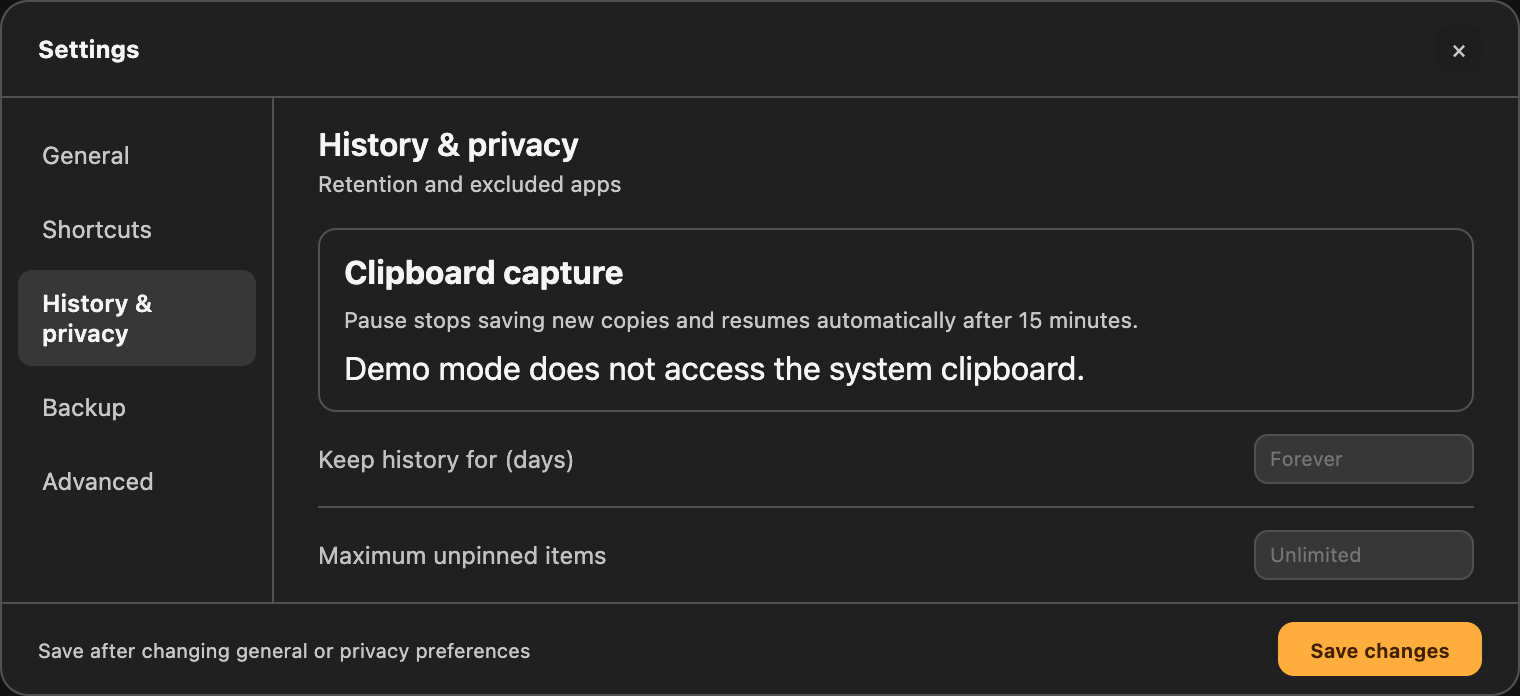
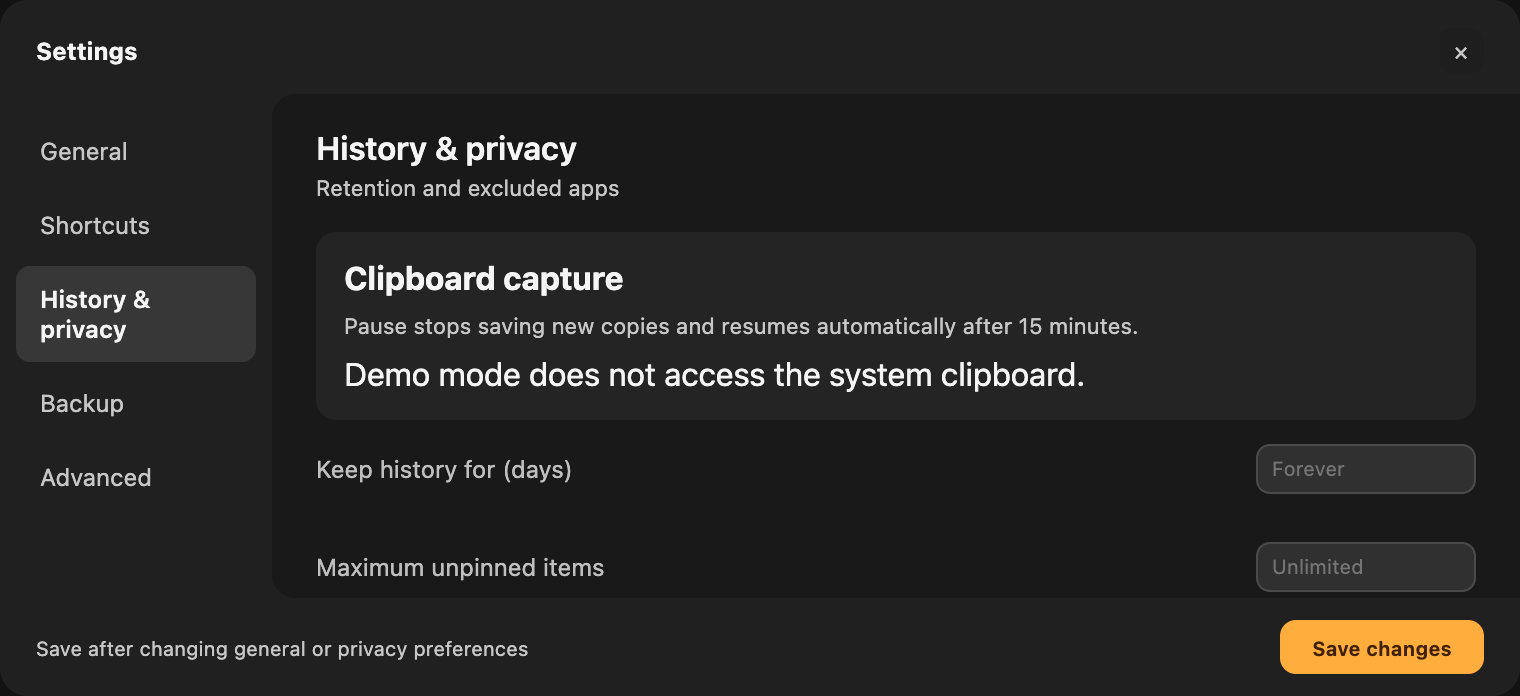
Use surface tones and spacing instead of workspace dividers

diff --git a/apps/desktop/styles.css b/apps/desktop/styles.css
@@ -17,7 +17,9 @@
   --surface: rgba(250, 250, 250, 0.98);
   --solid-surface: #fafafa;
   --solid-shell: #ededed;
-  --surface-border: rgba(40, 30, 20, 0.16);
+  --surface-border: rgba(0, 0, 0, 0.08);
+  --workspace-content: #ffffff;
+  --workspace-group: #f5f5f5;
   --subtle-surface: rgba(0, 0, 0, 0.05);
   --control-text: #40352c;
   --action-text: #6b3a00;
@@ -133,7 +135,7 @@ button:disabled {
   align-items: center;
   gap: 7px 12px;
   padding: 8px 18px 3px;
-  border-bottom: 1px solid var(--surface-border);
+  border-bottom: 0;
 }
 
 .search-wrap {
@@ -144,7 +146,7 @@ button:disabled {
   padding: 0 9px;
   border-radius: 9px;
   background: rgba(255, 255, 255, 0.28);
-  border: 1px solid rgba(255, 255, 255, 0.34);
+  border: 1px solid transparent;
   box-shadow: inset 0 0 0 0.5px rgba(0, 0, 0, 0.04);
 }
 
@@ -1123,7 +1125,7 @@ button.shortcut-hint:focus-visible { outline: 2px solid var(--selected); outline
   scroll-snap-type: x proximity;
   scrollbar-width: none;
   padding: 3px 2px 5px;
-  border-bottom: 1px solid var(--surface-border);
+  border-bottom: 0;
 }
 
 .card-track::-webkit-scrollbar {
@@ -1697,7 +1699,7 @@ button.shortcut-hint:focus-visible { outline: 2px solid var(--selected); outline
   justify-content: space-between;
   gap: 12px;
   padding: 8px 12px;
-  border-bottom: 1px solid var(--surface-border);
+  border-bottom: 0;
 }
 
 .preview-overlay > header div {
@@ -1739,7 +1741,7 @@ button.shortcut-hint:focus-visible { outline: 2px solid var(--selected); outline
   display: grid;
   place-items: center;
   overflow: auto;
-  background: var(--card-surface);
+  background: var(--workspace-content);
 }
 
 .preview-image {
@@ -1797,7 +1799,7 @@ button.shortcut-hint:focus-visible { outline: 2px solid var(--selected); outline
   justify-content: space-between;
   gap: 10px;
   padding: 4px 10px;
-  border-top: 1px solid var(--surface-border);
+  border-top: 0;
 }
 
 .preview-actions {
@@ -1973,7 +1975,9 @@ button.shortcut-hint:focus-visible { outline: 2px solid var(--selected); outline
     --surface: rgba(40, 40, 40, 0.98);
     --solid-surface: #282828;
     --solid-shell: #202020;
-    --surface-border: rgba(255, 255, 255, 0.22);
+    --surface-border: rgba(255, 255, 255, 0.08);
+    --workspace-content: #191919;
+    --workspace-group: #242424;
     --subtle-surface: rgba(255, 255, 255, 0.1);
     --control-text: #f2ebe5;
     --action-text: #ffcf8f;
@@ -2132,7 +2136,7 @@ button.shortcut-hint:focus-visible { outline: 2px solid var(--selected); outline
   bottom: 0;
   width: 100%;
   height: var(--dock-height);
-  border: 1px solid var(--surface-border);
+  border: 0;
   border-radius: 14px;
   background: var(--solid-shell);
   overflow: hidden;
@@ -2145,7 +2149,7 @@ button.shortcut-hint:focus-visible { outline: 2px solid var(--selected); outline
   transform: translateX(-50%);
   width: min(720px, calc(100% - 24px));
   max-height: 360px;
-  border: 1px solid var(--surface-border);
+  border: 0;
   border-radius: 14px;
   box-shadow: none;
   background: var(--solid-shell);
@@ -2170,24 +2174,24 @@ button.shortcut-hint:focus-visible { outline: 2px solid var(--selected); outline
   visibility: visible;
   pointer-events: auto;
 }
-.settings-popover > header { padding: 12px 18px; border-bottom: 1px solid var(--surface-border); }
+.settings-popover > header { padding: 14px 18px 10px; border-bottom: 0; }
 .settings-layout { min-height: 0; display: grid; grid-template-columns: 136px minmax(0, 1fr); }
-.settings-nav { padding: 12px 8px; border-right: 1px solid var(--surface-border); display: flex; flex-direction: column; gap: 4px; }
+.settings-nav { padding: 12px 8px; border-right: 0; background: var(--solid-shell); display: flex; flex-direction: column; gap: 4px; }
 .settings-nav button { padding: 9px 12px; text-align: left; border: 0; border-radius: 7px; color: var(--muted); background: transparent; font-size: 12px; }
 .settings-nav button.active { color: var(--text); background: var(--subtle-surface); font-weight: 600; }
-.settings-content { min-height: 0; overflow: auto; padding: 14px 22px 20px; }
+.settings-content { min-height: 0; overflow: auto; padding: 18px 22px 20px; background: var(--workspace-content); border-radius: 12px 0 0 12px; }
 .settings-page[hidden] { display: none; }
 .settings-page h2 { margin: 0; font-size: 16px; font-weight: 600; }
 .settings-page .settings-description { margin: 4px 0 16px; font-size: 11px; }
-.settings-page > label { padding: 11px 0; margin: 0; border-bottom: 1px solid var(--surface-border); font-size: 12px; grid-template-columns: minmax(0, 1fr) 110px; align-items: center; }
+.settings-page > label { padding: 12px 0; margin: 0; border-bottom: 0; font-size: 12px; grid-template-columns: minmax(0, 1fr) 110px; align-items: center; }
 .settings-page > .excluded-apps { grid-template-columns: 1fr; gap: 8px; }
 .settings-page > .toggle-setting { display: flex; justify-content: space-between; }
 .settings-page .toggle-setting input { accent-color: var(--selected); }
-.settings-page > section { margin: 14px 0 0; padding: 12px; border: 1px solid var(--surface-border); border-radius: 9px; }
+.settings-page > section { margin: 14px 0 0; padding: 14px; border: 0; border-radius: 10px; background: var(--workspace-group); }
 .settings-page .permission-help { font-size: 11px; line-height: 1.6; }
 .permission-troubleshooting { margin-top: 10px; font-size: 11px; color: var(--muted); }
 .permission-troubleshooting summary { cursor: pointer; }
-.settings-popover > footer { display: flex; align-items: center; justify-content: space-between; gap: 12px; padding: 9px 18px; border-top: 1px solid var(--surface-border); }
+.settings-popover > footer { display: flex; align-items: center; justify-content: space-between; gap: 12px; padding: 11px 18px; border-top: 0; }
 .settings-popover > footer > span { font-size: 10px; color: var(--muted); }
 .settings-popover .save-settings { width: auto; margin: 0; padding: 7px 16px; }
 @media (max-width: 600px) {
@@ -2211,11 +2215,11 @@ button.shortcut-hint:focus-visible { outline: 2px solid var(--selected); outline
 .pinboard-color-field input[type="color"] { width: 44px; cursor: pointer; }
 .pinboard-editor-fields input:focus-visible, .pinboard-creator input:focus-visible { outline: 1px solid var(--selected); outline-offset: 2px; }
 .capture-status { border: 0; border-radius: 6px; padding: 5px 8px; color: var(--muted); background: var(--tab-selected); font-size: 10px; white-space: nowrap; }
-.capture-settings, .queue-help { padding: 12px 0; border-bottom: 1px solid var(--surface-border); }
+.capture-settings, .queue-help { padding: 12px 0; border-bottom: 0; }
 .capture-settings p, .queue-help p { margin: 6px 0; color: var(--muted); font-size: 11px; line-height: 1.6; }
 .capture-settings .status-button { margin-top: 4px; background: var(--tab-selected); }
 .keyboard-reference { margin: 14px 0 0; font-size: 11px; }
-.keyboard-reference > div { display: flex; justify-content: space-between; align-items: center; gap: 16px; padding: 9px 0; border-bottom: 1px solid var(--surface-border); }
+.keyboard-reference > div { display: flex; justify-content: space-between; align-items: center; gap: 16px; padding: 10px 0; border-bottom: 0; }
 .keyboard-reference dd { margin: 0; white-space: nowrap; }
 .keyboard-reference kbd { color: var(--muted); font: inherit; }
 .pinboard-editor, .pinboard-creator { max-height: calc(100% - 50px); overflow-y: auto; }

diff --git a/docs/verification.md b/docs/verification.md
@@ -2,6 +2,12 @@
 
 Snapshot: **2026-09-08**, source release **v0.1.0-mvp.1**. Platform checked locally: Apple Silicon macOS, Rust 1.98.0, Trunk 0.21.14. This record separates automated checks from native acceptance and distribution readiness.
 
+## Surface hierarchy instead of structural rules (2026-09-10)
+
+Local **beta.16** removes the continuous separators around the rail toolbar/track, settings header/navigation/footer/rows and preview header/footer, plus the bright outer outlines of the three workspaces. Settings navigation and content use distinct neutral surfaces, rounded content corners and spacing; related groups use a quiet background fill. Ordinary card and control boundaries are softened, while selection, keyboard focus and the existing increased-contrast card treatment remain available. The supplied ChatGPT-style reference informs the use of surface tones and spacing; no third-party artwork is included. Native window size and interaction logic are unchanged.
+
+Validation passed on the final compiled frontend: five UI groups (CopyRail design, workspace interactions, visual contrast, toolbar/settings and language), covering light/dark, normal/compact and small windows, increased-contrast cards, keyboard scrolling, preview switching, all five settings categories, stable rail geometry during delayed settings resizing, and persisted language choices. English synthetic README screenshots were regenerated and visually inspected alongside light/dark workspace screenshots. All six reports match the bundled frontend hashes. This CSS-only iteration does not change Rust behavior; historical Rust-test counts below belong to their stated versions. The prior installed beta.15 had no pending editor/save/import and exited normally before replacement. The verified, ad-hoc-signed beta.16 was installed into `/Applications/CopyRail.app`; every bundled file matched the delivery source. Native dark/compact inspection observed the rail without continuous horizontal separators, the settings content/sidebar background separation without white dividing rules, and the compact preview without header/footer lines while the rail remained visible. Settings reported **⇧⌘V registered**, with retry disabled. Closing settings and preview worked; Escape hid the final single ordinary process (**PID 14874**), confirmed by the owned window trace. No real paste, capture preference, Accessibility, login or system security change was performed. The duplicate exited beta.15 installation backup was removed after comparison with the retained delivery. Checksum-verified maintenance preview/apply retained beta.16, beta.15 and beta.14, removing the beta.13 group and superseded rebuildable outputs. The different-content unsigned build bundle was conservatively preserved.
+
 ## System language and installed beta.15 (2026-09-09)
 
 Local **beta.15** defaults new and legacy settings without a language override to **System default**. The native host resolves the macOS preferred language: Chinese language tags use Simplified Chinese; other or unavailable languages use English. Explicit English and Chinese preferences remain unchanged. Settings → General offers System default, 简体中文 and English, saves only the language immediately, and preserves unrelated drafts. The startup placeholder is language-neutral. Both README editions describe the same behavior.

diff --git a/README.md b/README.md
@@ -48,7 +48,7 @@ Hiding the rail leaves capture running. Pause capture in Settings or the menu ba
 
 ## Status and platform
 
-CopyRail is an **early source MVP**, developed and tested on Apple Silicon macOS. The latest local iteration is **0.1.0-local-beta.15**. There is no Developer ID-signed, notarized binary release yet.
+CopyRail is an **early source MVP**, developed and tested on Apple Silicon macOS. The latest local iteration is **0.1.0-local-beta.16**. There is no Developer ID-signed, notarized binary release yet.
 
 The implemented features above are not a claim of complete daily-use validation. Full cross-app paste and drag/drop coverage, complex rich-text fidelity, full-screen Spaces, multiple displays and VoiceOver still have open acceptance items. Shared pinboards, multi-device sync and mobile clients are outside this MVP. See the [verification record](docs/verification.md) for the tested scope.
 
